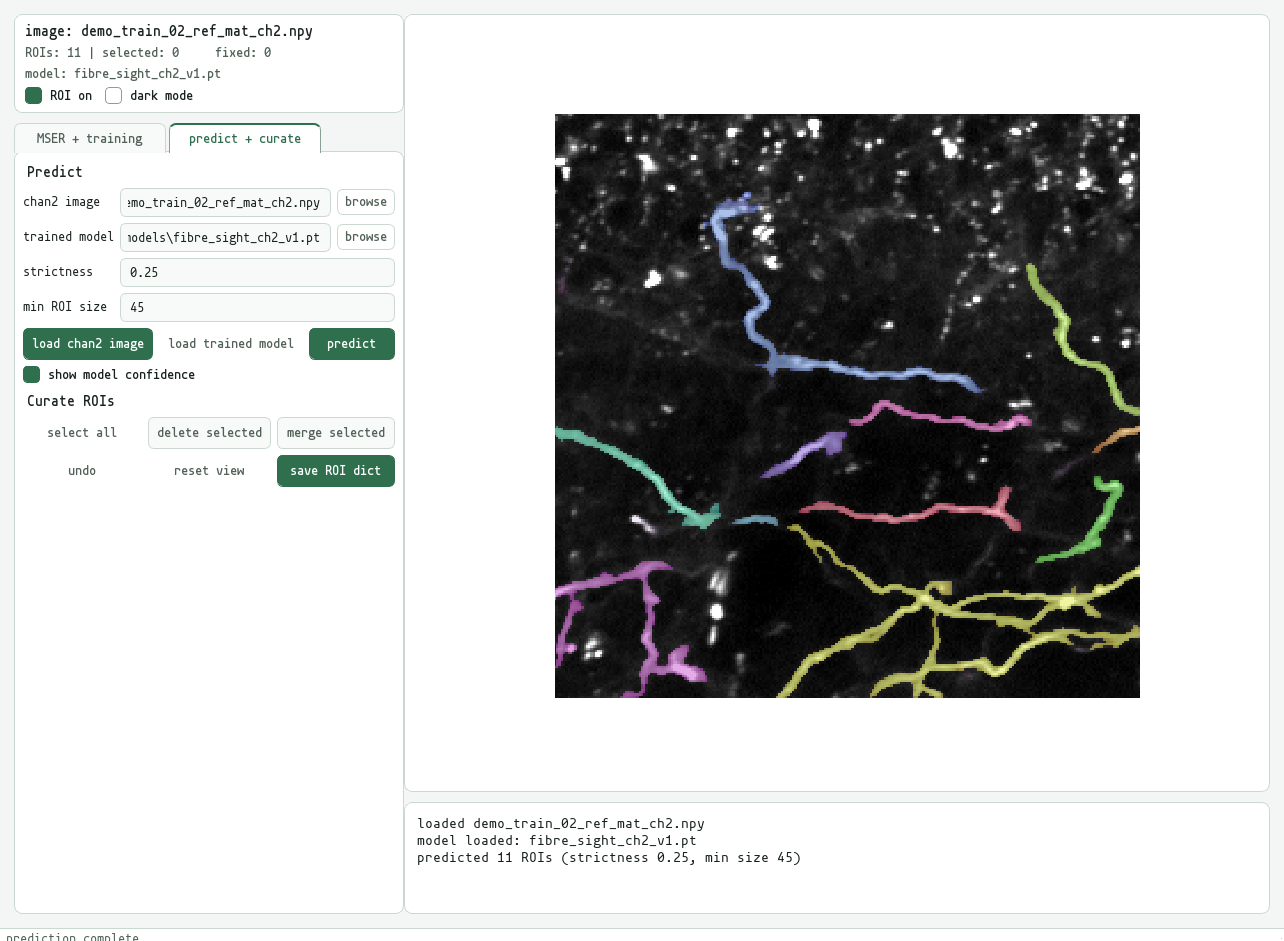
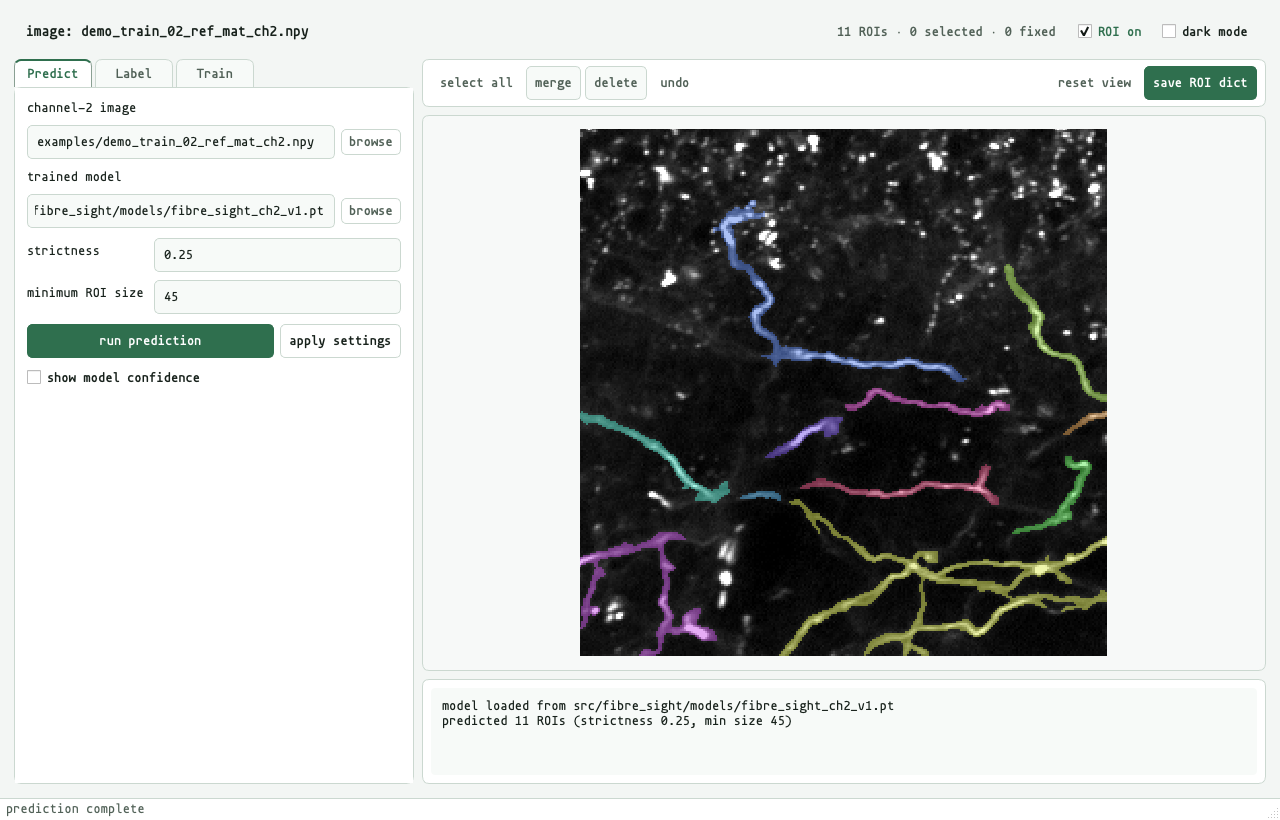
docs: update documentations

diff --git a/src/fibre_sight/__main__.py b/src/fibre_sight/__main__.py
@@ -1,6 +1,7 @@
 '''
 Created on 24 July 2026
-launch the Fibre Sight workbench
+
+launch the FibreSight workbench
 
 @author: Dinghao Luo
 '''
@@ -12,4 +13,3 @@ from .fibre_sight_workbench_gui import main
 #%% entry point
 if __name__ == '__main__':
     main()
-

diff --git a/src/fibre_sight/__init__.py b/src/fibre_sight/__init__.py
@@ -1,7 +1,8 @@
 '''
 Created on 4 April 2026
+
 Modified on 24 July 2026 to add standalone package metadata
-shared Fibre Sight segmentation and training helpers
+shared FibreSight segmentation and training helpers
 
 @author: Dinghao Luo
 '''

diff --git a/README.md b/README.md
@@ -1,10 +1,10 @@
-# Fibre Sight
+# FibreSight
 
 [![tests](../../actions/workflows/tests.yml/badge.svg)](../../actions/workflows/tests.yml)
 
-With tens of sessions and hundreds of axon/dendrite ROIs, manual curation of these ROIs can take days of effort, and the resulting segmentation also varies between experimenters. Fibre Sight reads two-dimensional channel-2 reference arrays (`ref_mat_ch2.npy`) and predicts candidate ROIs; the workbench combines a bundled U-Net, the older MSER proposal route, and manual curation, so each proposal can be inspected, deleted, or merged before the resulting `xpix` and `ypix` dictionary is saved.
+With tens of sessions and hundreds of axon/dendrite ROIs, manual curation of these ROIs can take days of effort, and the resulting segmentation also varies between experimenters. FibreSight reads two-dimensional channel-2 reference arrays (`ref_mat_ch2.npy`) and predicts candidate ROIs; the workbench combines a bundled U-Net, the older MSER proposal route, and manual curation, so each proposal can be inspected, deleted, or merged before the resulting `xpix` and `ypix` dictionary is saved.
 
-![Fibre Sight workbench with predicted ROI outlines and the model confidence map](docs/images/fibre-sight-workbench.png)
+![FibreSight workbench with predicted ROI outlines and curation controls](docs/images/fibre-sight-workbench.png)
 
 This repository comes with a `fibre_sight_ch2_v1.pt` checkpoint ([model card](MODEL_CARD.md); [methods and training record](METHODS.md)) trained on hand-labelled channel-2 axon images from our lab; the data are not included, but 3 example sessions (cropped) are bundled. The checkpoint's default operating point favours recall, with a confidence threshold of `0.25`, a minimum component size of `45` pixels, and four-view flip test-time augmentation.
 
@@ -36,9 +36,9 @@ python -m pip install -e .
 fibre-sight
 ```
 
-PyTorch selects CUDA when a compatible GPU build is present; CPU inference uses the same checkpoint.
+Training and inference both default to automatic device selection: PyTorch uses CUDA when it is available, then Apple's MPS backend on Apple silicon, then CPU. The same checkpoint works on all three devices.
 
-On macOS the Python interpreter *must* be arm64. PyTorch has published no macOS x86_64 wheels since 2.2.2, so an Intel build, including an Anaconda installation running under Rosetta, cannot satisfy the `torch>=2.3` requirement; pip reports that no matching distribution was found and lists nothing above 2.2.2. Check with `python -c "import platform; print(platform.machine())"`, which should print `arm64`. If it prints `x86_64`, install a native arm64 conda such as Miniforge, or use an arm64 Homebrew Python.
+On macOS the Python interpreter *must* be arm64. PyTorch has published no macOS x86_64 wheels since 2.2.2, so an Intel build, including an Anaconda installation running under Rosetta, cannot satisfy the `torch>=2.3` requirement; pip reports that no matching distribution was found and lists nothing above 2.2.2. Check with `python -c "import platform; print(platform.machine())"`, which should print `arm64`. If it prints `x86_64`, install a native arm64 conda such as Miniforge, or use an arm64 Homebrew Python. MPS also requires macOS 12.3 or later. Its PyTorch status can be checked with `python -c "import torch; print(torch.backends.mps.is_built(), torch.backends.mps.is_available())"`; both values should be `True` for GPU use.
 
 ## quick demo
 
@@ -47,21 +47,21 @@ Three unlabelled 256 × 256 crops are included under `examples/`: two come from 
 From the repository root:
 
 ```sh
-fibre-sight-predict --image examples/demo_test_ref_mat_ch2.npy --out workspace/output/demo_predicted_ROI_dict.npy --device cpu
+fibre-sight-predict --image examples/demo_test_ref_mat_ch2.npy --out workspace/output/demo_predicted_ROI_dict.npy
 ```
 
-The command uses the bundled checkpoint, prints the number of predicted ROIs, and creates `workspace/output/` when needed. To inspect the same crop in the GUI, start `fibre-sight`, open `predict + curate`, select `examples/demo_test_ref_mat_ch2.npy`, click `load trained model`, then `predict`. `show model confidence` places the confidence map beneath the editable ROI outlines.
+The command uses the bundled checkpoint, chooses the available compute device, prints the number of predicted ROIs, and creates `workspace/output/` when needed. To inspect the same crop in the GUI, start `fibre-sight`, open `predict`, select `examples/demo_test_ref_mat_ch2.npy`, then click `run prediction`. `show model confidence` places the confidence map beneath the editable ROI outlines.
 
 ## predict and curate
 
-1. Open the `predict + curate` tab and select a two-dimensional channel-2 reference `.npy` file.
-2. Leave the bundled checkpoint selected, then click `load trained model`.
-3. Click `predict`. The confidence map is retained in memory, so `strictness` and `min ROI size` can be adjusted without another model pass.
+1. Open the `predict` tab and select a two-dimensional channel-2 reference `.npy` file.
+2. Leave the bundled checkpoint selected, then click `run prediction`.
+3. The confidence map is retained in memory, so `strictness` and `minimum ROI size` can be changed without another model pass. Click `apply settings` to rebuild the proposals from that map.
 4. Inspect the outlines, delete poor proposals, merge fragments when needed, and save the ROI dictionary.
 
-![Switching between the MSER + training and predict + curate tabs](docs/images/predict-curate.gif)
+![the predict, label and train tabs in light and dark mode](docs/images/predict-curate.gif)
 
-Higher `strictness` values retain fewer pixels. `min ROI size` removes small connected components after thresholding. `show model confidence` places the confidence map beneath the ROI outlines; `ROI on / ROI off` leaves the image visible without outlines when the raw channel-2 reference needs inspection. The [methods](METHODS.md#prediction-controls) record gives the defaults and the direction of every prediction and MSER control.
+Higher `strictness` values retain fewer pixels. `minimum ROI size` removes small connected components after thresholding. `show model confidence` places the confidence map beneath the ROI outlines; `ROI on / ROI off` leaves the image visible without outlines when the raw channel-2 reference needs inspection. The [methods](METHODS.md#prediction-controls) record gives the defaults and the direction of every prediction and MSER control.
 
 ## training a new model
 
@@ -69,7 +69,7 @@ The bundled checkpoint covers only our lab's data. It has worked for multiple se
 
 ### 1. label sessions
 
-Open the `MSER + training` tab in order to hand-label session images. One can delete, merge, and/or fix proposals made by the MSER algorithm here. Once curation is done for one session, the ROI dictionary can be saved.
+Open the `label` tab to hand-label session images. One can delete, merge, and/or fix proposals made by the MSER algorithm here. Once curation is done for one session, the ROI dictionary can be saved.
 
 Arrange the results so each session directory holds both files:
 
@@ -96,7 +96,7 @@ Use `--no-splits` to write the manifest without splits and assign them in the CS
 
 ### 3. edit a training recipe
 
-Copy a shipped config and edit it rather than modifying the packaged file:
+Copy a shipped config and edit it without modifying the packaged file:
 
 ```
 cp src/fibre_sight/configs/ch2_unet.yaml workspace/my_recipe.yaml
@@ -104,9 +104,9 @@ cp src/fibre_sight/configs/ch2_unet.yaml workspace/my_recipe.yaml
 
 Paths inside the config resolve against the workspace root, so `data.manifest` of `manifests/ch2_manifest.csv` and `train.out_dir` of `output/runs` need no change at the default locations.
 
-A new dataset usually needs only a few changes: `data.patch_size` and `data.patches_per_image` follow from the field size, with the defaults assuming 256-pixel crops; `data.foreground_fraction` sets how often a crop is centred on labelled pixels, where 0.75 suits sparse fibre masks; `data.normalise_percentiles` clips at the 1st and 99.7th percentiles before scaling; and `train.run_name` names the output directory.
+A new dataset usually needs only a few changes: `data.patch_size` and `data.patches_per_image` follow from the field size, with the defaults assuming 256-pixel crops; `data.foreground_fraction` sets how often a crop is centred on labelled pixels, where 0.75 suits sparse fibre masks; `data.normalise_percentiles` clips at the 1st and 99.7th percentiles before scaling; and `train.run_name` names the output directory. `train.device` defaults to `auto`; it can be set to `mps`, `cuda`, or `cpu` to require one backend. The GUI exposes the same choice under `train` > `advanced options`.
 
-`ch2_unet_aux_recall.yaml` and `ch2_unet_512.yaml` are the two retained trials described in the [methods record](METHODS.md#retained-experiments). They are working experiments rather than tuned alternatives.
+`ch2_unet_aux_recall.yaml` and `ch2_unet_512.yaml` are the two retained trials described in the [methods record](METHODS.md#retained-experiments).
 
 ### 4. train
 
@@ -122,7 +122,7 @@ Each epoch prints training loss, validation loss and validation Dice, and writes
 
 Selection on validation Dice is fixed in the training code, so the saved epoch is often not the epoch where validation loss bottoms out; for the bundled model those were epoch 37 and epoch 59.
 
-Training uses CUDA when available and falls back to CPU. On Apple silicon the run stays on CPU, since MPS is not used.
+Training uses CUDA when available, then MPS on Apple silicon, then CPU. CUDA can use automatic mixed precision when `train.amp` is enabled; MPS training stays in float32, and pinned-memory loading is disabled there because it is CUDA-specific.
 
 ### 5. evaluate on the held-out split
 
@@ -139,8 +139,6 @@ This reports Dice, intersection over union, precision, recall and F2 per session
 
 Choose the operating point after the weights are fixed, and inspect overlays alongside the numbers. Pixel scores describe foreground overlap and hide split and merge errors, so a setting that looks better on Dice can produce visibly worse ROIs. The [methods record](METHODS.md#choosing-the-released-operating-point) shows the sweep behind the bundled `0.25 / 45` default and why it sits between the recall-heavy and Dice-heavy optima.
 
-If the test split shares animals with the training split, as the bundled model's does, treat the result as a descriptive check rather than an external estimate.
-
 ### 6. use the new checkpoint
 
 ```
@@ -152,7 +150,7 @@ fibre-sight-predict \
   --out workspace/output/predicted_ROI_dict.npy
 ```
 
-Add `--no-tta` to disable four-view flip averaging, which is on by default. In the GUI, use `browse` beside `trained model` on the `predict + curate` tab to point at the new `best.pt` instead of the bundled checkpoint.
+Add `--no-tta` to disable four-view flip averaging, which is on by default. In the GUI, use `browse` beside `trained model` on the `predict` tab to point at the new `best.pt` instead of the bundled checkpoint.
 
 A new checkpoint that predicts well enough to seed curation replaces MSER as the proposal route for the next labelling round.
 
@@ -164,7 +162,7 @@ The hand labels generally excluded dim, out-of-plane processes. In dLight imagin
 
 ### Why are there too many or fragmented ROIs?
 
-The released `0.25 / 45` operating point favours recall, so false-positive pixels and fragmented components are expected. Raising `strictness` removes weaker responses; raising `min ROI size` removes small connected components. The remaining proposals can be deleted or merged in the editor before the ROI dictionary is saved.
+The released `0.25 / 45` operating point favours recall, so false-positive pixels and fragmented components are expected. Raising `strictness` removes weaker responses; raising `minimum ROI size` removes small connected components. The remaining proposals can be deleted or merged in the editor before the ROI dictionary is saved.
 
 ### Will the bundled checkpoint work on images from another setup?
 
@@ -196,7 +194,7 @@ The reference array and ROI dictionary must describe the same image. `scan label
 
 ## command-line tools
 
-Installing Fibre Sight adds four command-line tools alongside the GUI:
+Installing FibreSight adds four command-line tools alongside the GUI:
 
 ```text
 fibre-sight-build-manifest
@@ -210,7 +208,7 @@ Each command accepts `--help`. The same tools can be run as modules, for example
 The prediction command uses the bundled checkpoint and its saved operating point by default:
 
 ```sh
-fibre-sight-predict --image examples/demo_test_ref_mat_ch2.npy --out workspace/output/demo_predicted_ROI_dict.npy --device cpu
+fibre-sight-predict --image examples/demo_test_ref_mat_ch2.npy --out workspace/output/demo_predicted_ROI_dict.npy
 ```
 
 Three training recipes are retained under `src/fibre_sight/configs/`: `ch2_unet.yaml` is the default 256-pixel crop recipe, `ch2_unet_aux_recall.yaml` is the support-target recall trial, and `ch2_unet_512.yaml` is the wider 512-pixel crop trial. These are working experiments; no exhaustive model comparison was run.
@@ -225,6 +223,6 @@ python -m unittest discover -s tests -v
 
 ## repository scope
 
-This repository contains the active Fibre Sight workbench extracted from a larger analysis repository. The pretrained checkpoint contains model weights and inference metadata; full source images and hand-labelled ROI dictionaries remain private. The three arrays under `examples/` are the cropped, unlabelled references described above.
+This repository contains the active FibreSight workbench extracted from a larger analysis repository. The pretrained checkpoint contains model weights and inference metadata; full source images and hand-labelled ROI dictionaries remain private. The three arrays under `examples/` are the cropped, unlabelled references described above.
 
 The source code, bundled checkpoint, and demonstration arrays are released under the [MIT License](LICENSE). Mononoki 1.006 by Matthias Tellen is bundled for the interface under the [SIL Open Font License 1.1](src/fibre_sight/assets/fonts/mononoki/LICENSE); its [font note](src/fibre_sight/assets/fonts/mononoki/README.md) records the upstream release.

diff --git a/MODEL_CARD.md b/MODEL_CARD.md
@@ -1,8 +1,8 @@
-# Fibre Sight ch2 v1 model card
+# FibreSight ch2 v1 model card
 
 ## model
 
-`fibre_sight_ch2_v1.pt` is a single-channel checkpoint for the package's small U-Net implementation. The network has one input channel, one output channel, 24 base channels, and a depth of four. Fibre Sight normalises each two-dimensional channel-2 reference image between its 1st and 99.7th percentiles, predicts a foreground probability map, thresholds that map, removes connected components smaller than 45 pixels, and converts the remaining components into editable `xpix` and `ypix` ROI dictionaries. The [methods record](METHODS.md) describes the labels, split, training run and operating-point decision.
+`fibre_sight_ch2_v1.pt` is a single-channel checkpoint for the package's small U-Net implementation. The network has one input channel, one output channel, 24 base channels, and a depth of four. FibreSight normalises each two-dimensional channel-2 reference image between its 1st and 99.7th percentiles, predicts a foreground probability map, thresholds that map, removes connected components smaller than 45 pixels, and converts the remaining components into editable `xpix` and `ypix` ROI dictionaries. The [methods record](METHODS.md) describes the labels, split, training run and operating-point decision.
 
 | field | value |
 | --- | --- |
@@ -22,7 +22,7 @@ The checkpoint contains 92 model tensors and the metadata required for inference
 
 ## training and evaluation data
 
-The model was trained on the authors' channel-2 reference images and corresponding hand-curated axon ROI dictionaries. Full images and ROI dictionaries are not distributed with Fibre Sight. The final manifest contained 53 sessions from four animals and 1,296 curated ROIs: 37 training sessions, 7 validation sessions and 9 test sessions. All four animals appeared in each split, so the test set contains unseen sessions from the same animals and acquisition source. The repository includes three unlabelled 256 × 256 crops, and no animal or session identifiers are stored in the public training record.
+The model was trained on the authors' channel-2 reference images and corresponding hand-curated axon ROI dictionaries. Full images and ROI dictionaries are not distributed with FibreSight. The final manifest contained 53 sessions from four animals and 1,296 curated ROIs: 37 training sessions, 7 validation sessions and 9 test sessions. All four animals appeared in each split, so the test set contains unseen sessions from the same animals and acquisition source. The repository includes three unlabelled 256 × 256 crops, and no animal or session identifiers are stored in the public training record.
 
 The selected checkpoint reached a best validation pixel Dice score of `0.7821986335` at epoch 37. Test-set evaluation used threshold `0.25`, minimum size `45`, and test-time augmentation, with each metric averaged across the nine test sessions:
 

diff --git a/METHODS.md b/METHODS.md
@@ -1,20 +1,20 @@
-# Fibre Sight methods
+# FibreSight methods
 
 `fibre_sight_ch2_v1.pt` came from 53 hand-labelled dLight imaging sessions and an 80-epoch training run completed on 12 May 2026. The workbench controls, labelling decisions and training record are kept here; fixed artefact details, intended use and licence remain in the [model card](MODEL_CARD.md).
 
 ## prediction controls
 
-The network produces one foreground probability for every image pixel. The controls below change how that probability map is displayed or converted into connected ROI components; changing `strictness` or `min ROI size` reuses the probability map already held in memory.
+The network produces one foreground probability for every image pixel. The controls below change how that probability map is displayed or converted into connected ROI components; changing `strictness` or `minimum ROI size` reuses the probability map already held in memory.
 
 | control | default | effect |
 | --- | ---: | --- |
 | `strictness` | `0.25` | Confidence threshold applied to each pixel. Lower values retain weaker and dimmer responses; higher values retain fewer pixels. |
-| `min ROI size` | `45` pixels | Removes connected components smaller than this area after thresholding. Dimness sensitivity stays unchanged. |
+| `minimum ROI size` | `45` pixels | Removes connected components smaller than this area after thresholding. Dimness sensitivity stays unchanged. |
 | `show model confidence` | off | Displays the probability map beneath the ROI colours. This changes the display only. |
 | `ROI on / ROI off` | on | Shows or hides the ROI overlay while leaving the channel-2 reference visible. |
 | four-view TTA | on | Averages the original image and its horizontal, vertical and two-axis flips. The CLI and API can disable it. |
 
-A faint process with visible confidence can sometimes be recovered by lowering `strictness`. A process absent from the confidence map falls outside the class learned by this checkpoint; `min ROI size` acts only on components already present.
+A faint process with visible confidence can sometimes be recovered by lowering `strictness`. A process absent from the confidence map falls outside the class learned by this checkpoint; `minimum ROI size` acts only on components already present.
 
 ## MSER controls
 

diff --git a/src/fibre_sight/assets/fonts/mononoki/README.md b/src/fibre_sight/assets/fonts/mononoki/README.md
@@ -1,3 +1,3 @@
 # mononoki
 
-Fibre Sight bundles four TTF files so the GUI and saved diagnostics use the same typeface across installations. They are mononoki 1.006 by Matthias Tellen, taken from [release 1.6](https://github.com/madmalik/mononoki/releases/download/1.6/mononoki.zip), and distributed under the [SIL Open Font License 1.1](https://github.com/madmalik/mononoki/blob/main/LICENSE).
+FibreSight bundles four TTF files so the workbench and saved diagnostics use mononoki across installations. They are mononoki 1.006 by Matthias Tellen, taken from [release 1.6](https://github.com/madmalik/mononoki/releases/download/1.6/mononoki.zip), and distributed under the [SIL Open Font License 1.1](https://github.com/madmalik/mononoki/blob/main/LICENSE).
